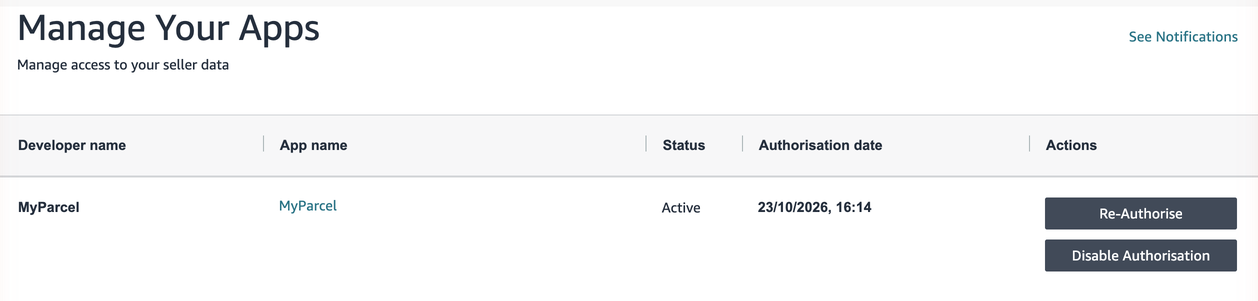
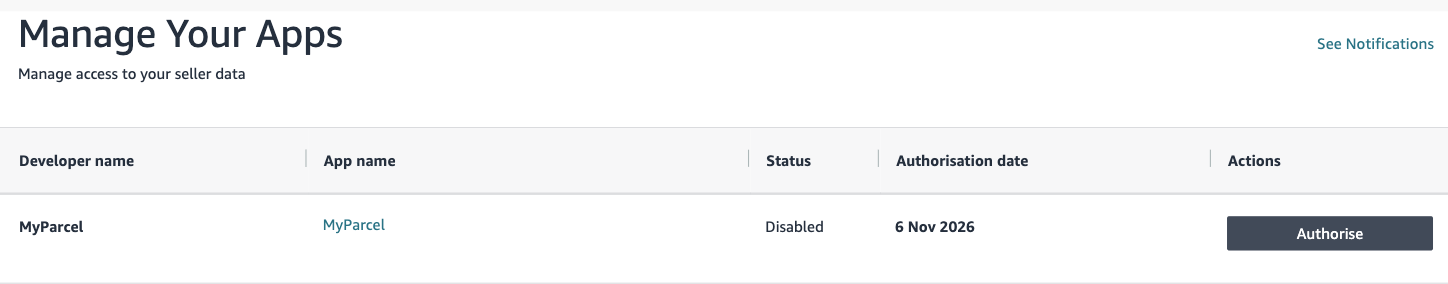
docs(amazon): show the Authorize Now button for first-time sellers
Retake both Seller Central screenshots with the MyParcel app disabled, so they
show what a seller without an active connection sees: Authorize Now in the
Selling Partner Appstore and Authorise under Manage Your Apps. Name these
buttons in step 3 and Quickstart step 3 in en, nl, it and fr.

diff --git a/pages/fr/platforms/amazon.md b/pages/fr/platforms/amazon.md
@@ -12,7 +12,7 @@ De quoi relier Amazon à MyParcel dès aujourd'hui. Pour les détails, voir [Que
 
 1. **Compte.** Vous n'avez pas encore de compte MyParcel ? Créez-en un sur [myparcel.nl/register](https://www.myparcel.nl/register). Activez l'**authentification à deux facteurs** dans votre compte MyParcel avant de commencer ([§2](#2-avant-de-commencer)).
 2. **Trouvez l'application.** Connectez-vous à Amazon Seller Central et ouvrez le [Selling Partner Appstore ↗](https://sellercentral.amazon.nl/selling-partner-appstore). Cherchez **MyParcel**.
-3. **Autorisez l'application.** Lancez l'autorisation de MyParcel dans Seller Central. Cochez la case pour donner l'accès à MyParcel et cliquez sur **Sign up / Login to MyParcel** (S'inscrire / se connecter à MyParcel).
+3. **Autorisez l'application.** Sur la page de l'application MyParcel, cliquez sur **Authorize Now** (Autoriser maintenant). Cochez la case pour donner l'accès à MyParcel et cliquez sur **Sign up / Login to MyParcel** (S'inscrire / se connecter à MyParcel).
 4. **Connectez-vous à MyParcel.** Amazon vous envoie vers MyParcel. Connectez-vous avec votre compte MyParcel.
 5. **Choisissez votre boutique.** Sélectionnez la boutique MyParcel qui reçoit vos commandes Amazon, cochez la confirmation et cliquez sur **Approve and connect** (Approuver et connecter).
 6. **Confirmez chez Amazon.** Amazon vous demande encore une fois de confirmer l'accès. Confirmez-le.
@@ -73,11 +73,11 @@ Suivez ces étapes d'une traite. Côté MyParcel, vous avez 5 minutes pour chaqu
 1. Connectez-vous à **Amazon Seller Central** avec le compte de votre boutique Amazon.
 2. Ouvrez le [Selling Partner Appstore ↗](https://sellercentral.amazon.nl/selling-partner-appstore) et cherchez **MyParcel**. L'application est éditée par MyParcel et elle est gratuite.
 
-![L'application MyParcel dans le Selling Partner Appstore, avec le bouton Manage Your Apps en haut à droite.](../../platforms/images/amazon/01-appstore-listing.png)
+![L'application MyParcel dans le Selling Partner Appstore, avec le bouton Authorize Now en haut à droite.](../../platforms/images/amazon/01-appstore-listing.png)
 
-3. Lancez l'autorisation de MyParcel. Vous vous êtes déjà connecté auparavant ? Allez alors dans **Manage Your Apps** (Gérer vos applications) et cliquez sur **Re-Authorise** (Autoriser à nouveau) à côté de MyParcel.
+3. Sur la page de l'application, cliquez sur **Authorize Now** (Autoriser maintenant). Vous vous êtes déjà connecté auparavant ? Allez alors dans **Manage Your Apps** (Gérer vos applications) et cliquez sur **Authorise** (Autoriser) à côté de MyParcel. Si MyParcel a encore le statut *Active*, le bouton s'appelle **Re-Authorise** (Autoriser à nouveau).
 
-![Manage Your Apps dans Seller Central, avec MyParcel, son statut et les boutons Re-Authorise et Disable Authorisation.](../../platforms/images/amazon/02-manage-your-apps.png)
+![Manage Your Apps dans Seller Central, avec MyParcel, son statut et le bouton Authorise.](../../platforms/images/amazon/02-manage-your-apps.png)
 
 4. Amazon affiche la page **Authorise MyParcel** (Autoriser MyParcel) avec les données dont MyParcel a besoin, voir [§4](#4-ce-que-vous-autorisez). Cochez **I direct Amazon to provide MyParcel access to my account and related data.** (Je demande à Amazon de donner à MyParcel l'accès à mon compte et aux données associées).
 5. Cliquez sur **Sign up / Login to MyParcel** (S'inscrire / se connecter à MyParcel).

diff --git a/pages/it/platforms/amazon.md b/pages/it/platforms/amazon.md
@@ -12,7 +12,7 @@ Quanto basta per collegare Amazon a MyParcel oggi. Per i dettagli, vedi [Cosa st
 
 1. **Account.** Non hai ancora un account MyParcel? Creane uno su [myparcel.nl/register](https://www.myparcel.nl/register). Attiva l'**autenticazione a due fattori** nel tuo account MyParcel prima di iniziare ([§2](#2-prima-di-iniziare)).
 2. **Trova l'app.** Accedi ad Amazon Seller Central e apri il [Selling Partner Appstore ↗](https://sellercentral.amazon.nl/selling-partner-appstore). Cerca **MyParcel**.
-3. **Autorizza l'app.** Avvia l'autorizzazione di MyParcel in Seller Central. Spunta la casella per dare l'accesso a MyParcel e clicca su **Sign up / Login to MyParcel** (Registrati / accedi a MyParcel).
+3. **Autorizza l'app.** Nella pagina dell'app MyParcel clicca su **Authorize Now** (Autorizza ora). Spunta la casella per dare l'accesso a MyParcel e clicca su **Sign up / Login to MyParcel** (Registrati / accedi a MyParcel).
 4. **Accedi a MyParcel.** Amazon ti porta a MyParcel. Accedi con il tuo account MyParcel.
 5. **Scegli il negozio.** Seleziona il negozio MyParcel che riceve i tuoi ordini Amazon, spunta la conferma e clicca su **Approve and connect** (Approva e collega).
 6. **Conferma su Amazon.** Amazon ti chiede ancora una volta di confermare l'accesso. Confermalo.
@@ -73,11 +73,11 @@ Segui questi passaggi in una sola volta. Dal lato di MyParcel hai 5 minuti per o
 1. Accedi ad **Amazon Seller Central** con l'account del tuo negozio Amazon.
 2. Apri il [Selling Partner Appstore ↗](https://sellercentral.amazon.nl/selling-partner-appstore) e cerca **MyParcel**. L'app è di MyParcel ed è gratuita.
 
-![L'app MyParcel nel Selling Partner Appstore, con il pulsante Manage Your Apps in alto a destra.](../../platforms/images/amazon/01-appstore-listing.png)
+![L'app MyParcel nel Selling Partner Appstore, con il pulsante Authorize Now in alto a destra.](../../platforms/images/amazon/01-appstore-listing.png)
 
-3. Avvia l'autorizzazione di MyParcel. Hai già collegato in passato? Vai allora su **Manage Your Apps** (Gestisci le tue app) e clicca su **Re-Authorise** (Autorizza di nuovo) accanto a MyParcel.
+3. Nella pagina dell'app clicca su **Authorize Now** (Autorizza ora). Hai già collegato in passato? Vai allora su **Manage Your Apps** (Gestisci le tue app) e clicca su **Authorise** (Autorizza) accanto a MyParcel. Se MyParcel ha ancora lo stato *Active*, il pulsante si chiama **Re-Authorise** (Autorizza di nuovo).
 
-![Manage Your Apps in Seller Central, con MyParcel, il suo stato e i pulsanti Re-Authorise e Disable Authorisation.](../../platforms/images/amazon/02-manage-your-apps.png)
+![Manage Your Apps in Seller Central, con MyParcel, il suo stato e il pulsante Authorise.](../../platforms/images/amazon/02-manage-your-apps.png)
 
 4. Amazon mostra la pagina **Authorise MyParcel** (Autorizza MyParcel) con i dati di cui MyParcel ha bisogno, vedi [§4](#4-cosa-autorizzi). Spunta **I direct Amazon to provide MyParcel access to my account and related data.** (Chiedo ad Amazon di dare a MyParcel l'accesso al mio account e ai dati collegati).
 5. Clicca su **Sign up / Login to MyParcel** (Registrati / accedi a MyParcel).

diff --git a/pages/nl/platforms/amazon.md b/pages/nl/platforms/amazon.md
@@ -12,7 +12,7 @@ Genoeg om Amazon vandaag aan MyParcel te koppelen. Voor de details, zie [Wat zoe
 
 1. **Account.** Heb je nog geen MyParcel-account? Maak er een aan via [myparcel.nl/register](https://www.myparcel.nl/register). Zet **tweestapsverificatie** aan in je MyParcel-account voordat je begint ([§2](#2-voordat-je-begint)).
 2. **App zoeken.** Log in op Amazon Seller Central en open de [Selling Partner Appstore ↗](https://sellercentral.amazon.nl/selling-partner-appstore). Zoek op **MyParcel**.
-3. **App autoriseren.** Start in Seller Central de autorisatie van MyParcel. Vink het vakje aan om MyParcel toegang te geven en klik op **Sign up / Login to MyParcel** (Aanmelden / inloggen bij MyParcel).
+3. **App autoriseren.** Klik op de app-pagina van MyParcel op **Authorize Now** (Nu autoriseren). Vink het vakje aan om MyParcel toegang te geven en klik op **Sign up / Login to MyParcel** (Aanmelden / inloggen bij MyParcel).
 4. **Inloggen bij MyParcel.** Amazon stuurt je door naar MyParcel. Log in met je MyParcel-account.
 5. **Shop kiezen.** Selecteer de MyParcel-shop die je Amazon-orders ontvangt, vink de bevestiging aan en klik op **Approve and connect** (Goedkeuren en koppelen).
 6. **Bevestigen bij Amazon.** Amazon vraagt je nog één keer om de toegang te bevestigen. Bevestig die.
@@ -73,11 +73,11 @@ Doorloop deze stappen in één keer. Aan de kant van MyParcel heb je voor elke s
 1. Log in op **Amazon Seller Central** met het account van je Amazon-shop.
 2. Open de [Selling Partner Appstore ↗](https://sellercentral.amazon.nl/selling-partner-appstore) en zoek op **MyParcel**. De app is van MyParcel en is gratis.
 
-![De MyParcel-app in de Selling Partner Appstore, met rechtsboven de knop Manage Your Apps.](../../platforms/images/amazon/01-appstore-listing.png)
+![De MyParcel-app in de Selling Partner Appstore, met rechtsboven de knop Authorize Now.](../../platforms/images/amazon/01-appstore-listing.png)
 
-3. Start de autorisatie van MyParcel. Heb je al eens gekoppeld? Ga dan naar **Manage Your Apps** (Je apps beheren) en klik op **Re-Authorise** (Opnieuw autoriseren) naast MyParcel.
+3. Klik op de app-pagina op **Authorize Now** (Nu autoriseren). Heb je al eens gekoppeld? Ga dan naar **Manage Your Apps** (Je apps beheren) en klik op **Authorise** (Autoriseren) naast MyParcel. Heeft MyParcel nog de status *Active*, dan heet de knop **Re-Authorise** (Opnieuw autoriseren).
 
-![Manage Your Apps in Seller Central, met MyParcel, de status en de knoppen Re-Authorise en Disable Authorisation.](../../platforms/images/amazon/02-manage-your-apps.png)
+![Manage Your Apps in Seller Central, met MyParcel, de status en de knop Authorise.](../../platforms/images/amazon/02-manage-your-apps.png)
 
 4. Amazon toont de pagina **Authorise MyParcel** (MyParcel autoriseren) met de gegevens die MyParcel nodig heeft, zie [§4](#4-waar-je-toestemming-voor-geeft). Vink **I direct Amazon to provide MyParcel access to my account and related data.** aan (Ik geef Amazon opdracht MyParcel toegang te geven tot mijn account en de bijbehorende gegevens).
 5. Klik op **Sign up / Login to MyParcel** (Aanmelden / inloggen bij MyParcel).

diff --git a/pages/platforms/amazon.md b/pages/platforms/amazon.md
@@ -12,7 +12,7 @@ Enough to link Amazon to MyParcel today. For the details, see [Looking for…](#
 
 1. **Account.** Don't have a MyParcel account yet? Create one at [myparcel.nl/register](https://www.myparcel.nl/register). Turn on **two-factor authentication** in your MyParcel account before you start ([§2](#2-before-you-start)).
 2. **Find the app.** Log in to Amazon Seller Central and open the [Selling Partner Appstore ↗](https://sellercentral.amazon.nl/selling-partner-appstore). Search for **MyParcel**.
-3. **Authorise the app.** Start the authorisation of MyParcel in Seller Central. Tick the box to give MyParcel access and click **Sign up / Login to MyParcel**.
+3. **Authorise the app.** On the MyParcel app page, click **Authorize Now**. Tick the box to give MyParcel access and click **Sign up / Login to MyParcel**.
 4. **Log in to MyParcel.** Amazon sends you to MyParcel. Log in with your MyParcel account.
 5. **Choose your shop.** Select the MyParcel shop that receives your Amazon orders, tick the confirmation and click **Approve and connect**.
 6. **Confirm at Amazon.** Amazon asks you once more to confirm the access. Confirm it.
@@ -73,11 +73,11 @@ Follow these steps in one go. On the MyParcel side you have 5 minutes for each s
 1. Log in to **Amazon Seller Central** with the account of your Amazon shop.
 2. Open the [Selling Partner Appstore ↗](https://sellercentral.amazon.nl/selling-partner-appstore) and search for **MyParcel**. The app is by MyParcel and is free.
 
-![The MyParcel app in the Selling Partner Appstore, with the Manage Your Apps button at the top right.](./images/amazon/01-appstore-listing.png)
+![The MyParcel app in the Selling Partner Appstore, with the Authorize Now button at the top right.](./images/amazon/01-appstore-listing.png)
 
-3. Start the authorisation of MyParcel. Have you connected before? Then go to **Manage Your Apps** and click **Re-Authorise** next to MyParcel.
+3. On the app page, click **Authorize Now**. Have you connected before? Then go to **Manage Your Apps** and click **Authorise** next to MyParcel. If MyParcel still has the status *Active*, the button is **Re-Authorise**.
 
-![Manage Your Apps in Seller Central, with MyParcel, its status and the Re-Authorise and Disable Authorisation buttons.](./images/amazon/02-manage-your-apps.png)
+![Manage Your Apps in Seller Central, with MyParcel, its status and the Authorise button.](./images/amazon/02-manage-your-apps.png)
 
 4. Amazon shows the page **Authorise MyParcel** with the data MyParcel needs, see [§4](#4-what-you-allow). Tick **I direct Amazon to provide MyParcel access to my account and related data.**
 5. Click **Sign up / Login to MyParcel**.
